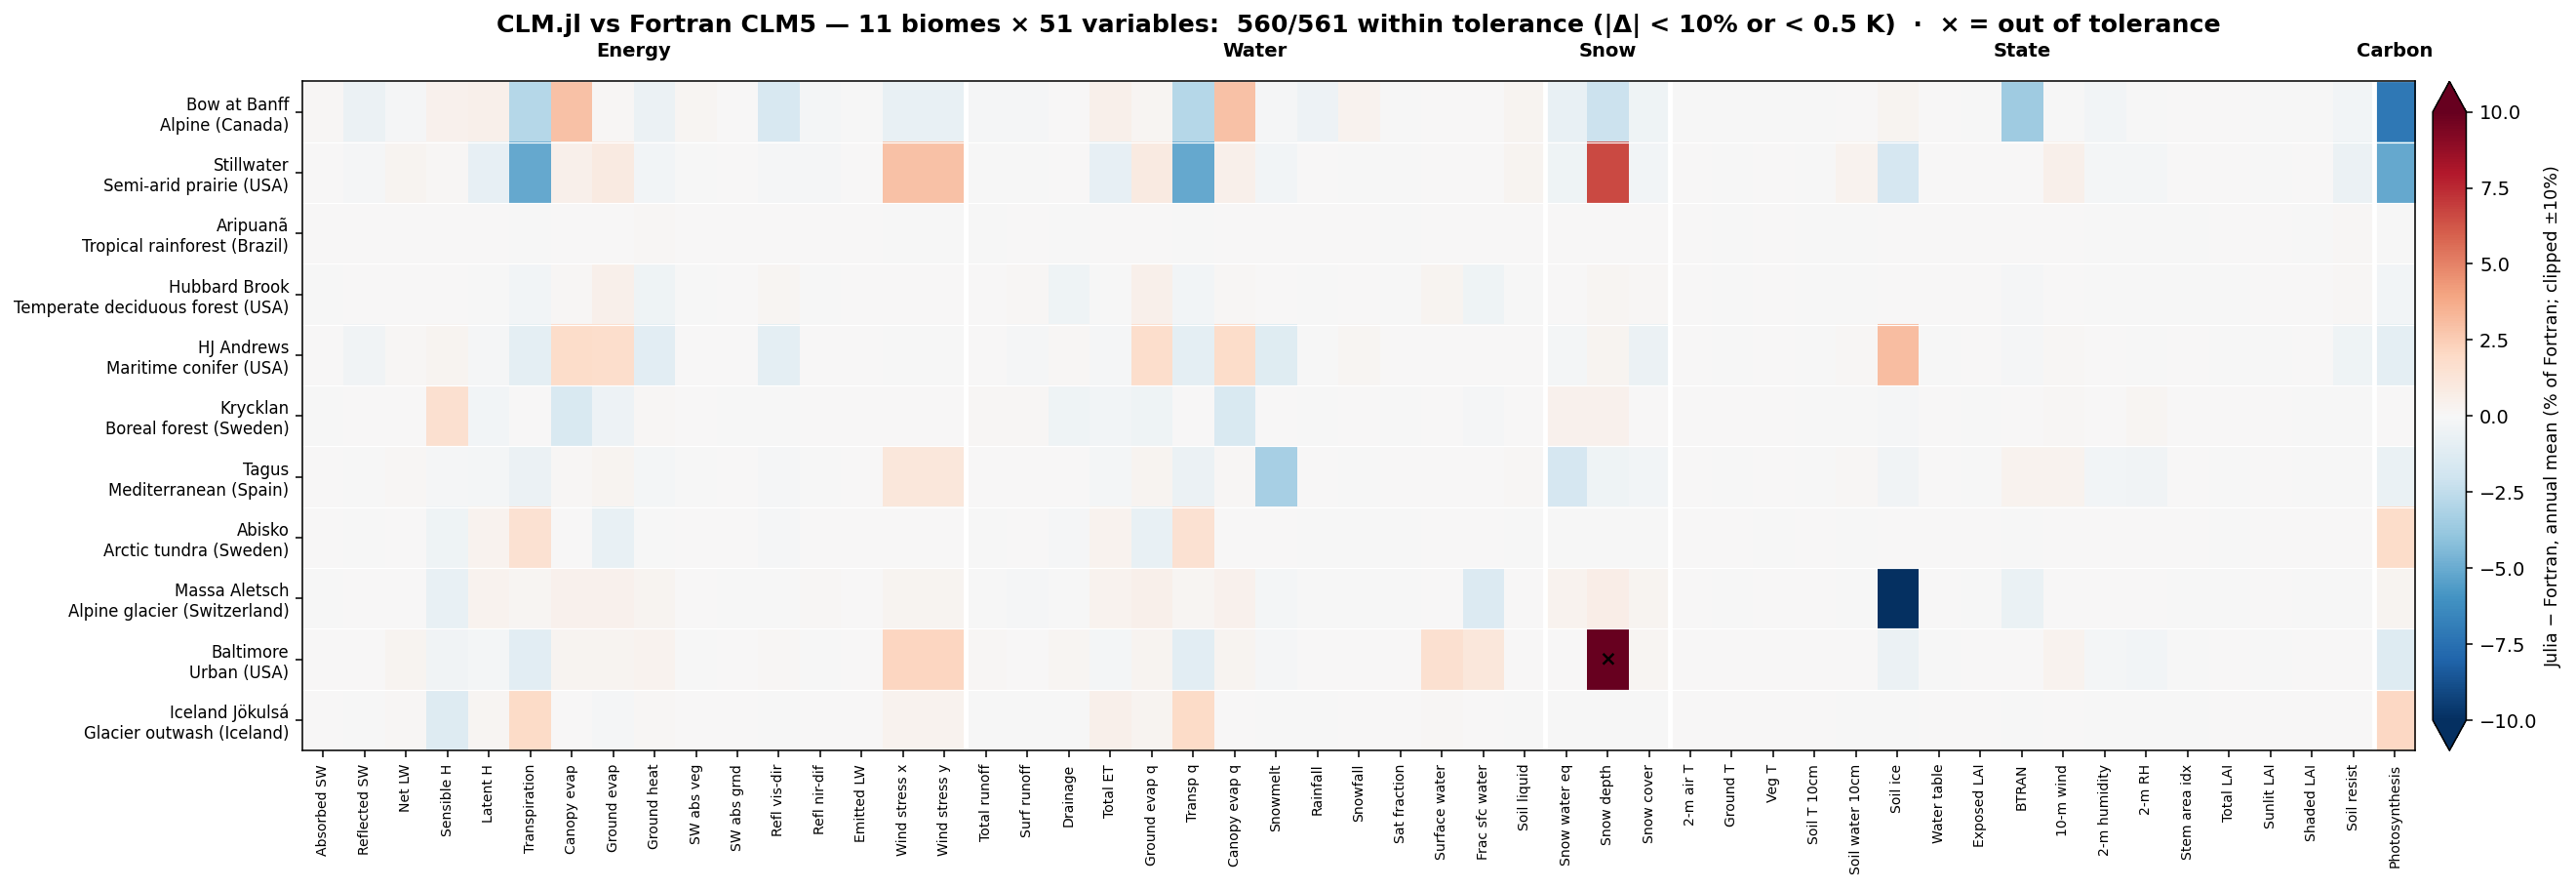
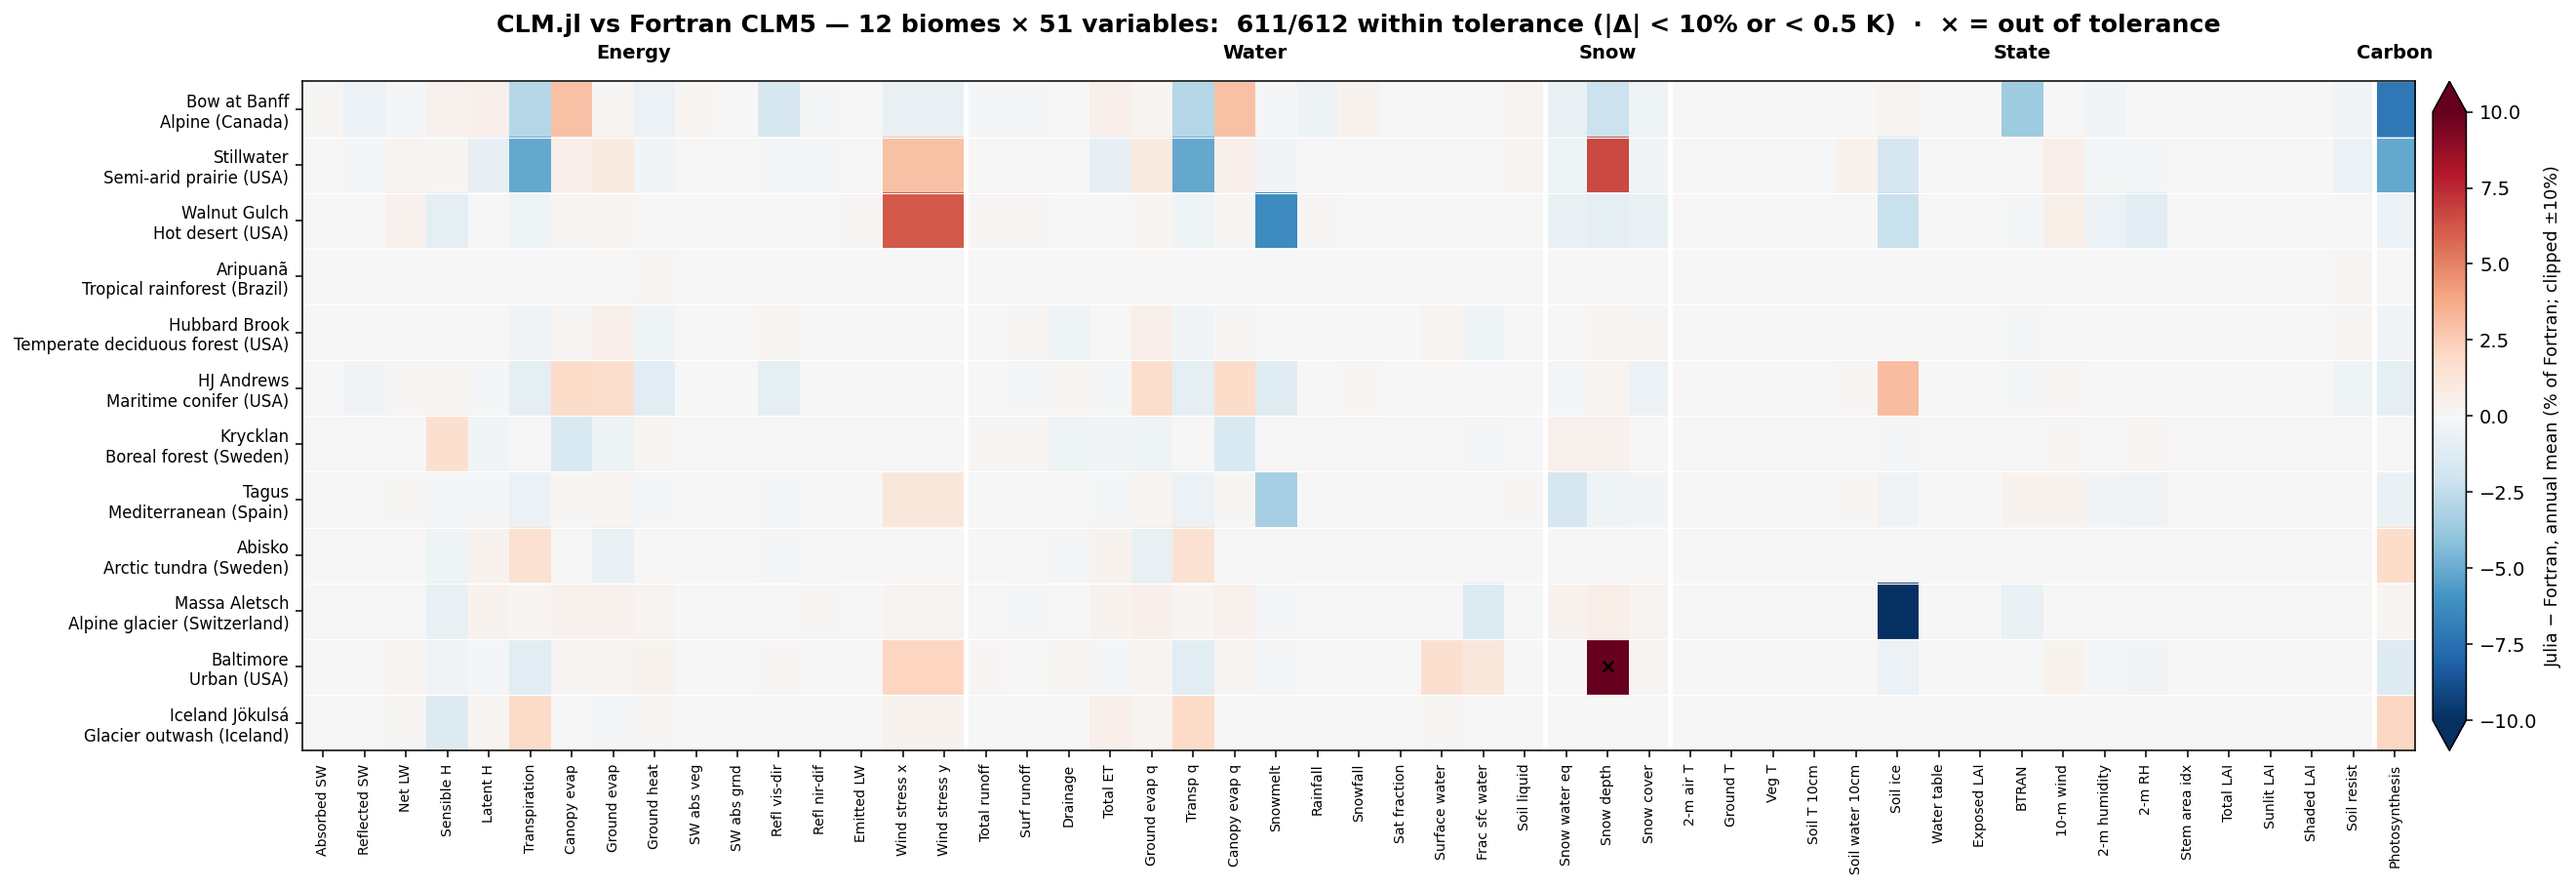
parity: add hot desert biome (Walnut Gulch) — 12th at 51/51
Generate a from-scratch Fortran CLM5 reference for the Walnut Gulch site
(Arizona; hot semi-arid desert shrubland) via SYMFLUENCE and wire it into the
parity suite. Julia matches Fortran on all 51 validated variables — everything
sub-1% except near-zero wind stress (+6.1% on ~0.03 N/m², passes on the noise
floor); temps <0.15 K, GPP -0.6%, water table and soil moisture exact.

- scripts/parity_run_domain.jl already carried the pre-wired Desert entry.
- scripts/plot_scorecard_overview.py: add Walnut Gulch row.
- scripts/parity_scorecard.png: regenerate — now 12 biomes × 51 vars, 611/612
  within tolerance (lone × still thin-warm-snow density at urban Baltimore).
- README: update standing to 611/612 across 12 biomes; move hot desert from
  "in progress" to covered.

Assisted-by: Claude Opus 4.8 (1M context) <[email redacted]>

diff --git a/scripts/plot_scorecard_overview.py b/scripts/plot_scorecard_overview.py
@@ -25,6 +25,7 @@ DATA_DIR = os.path.join(os.path.dirname(__file__), "..", "paper", "data")
 DOMAINS = [
     ("Bow",        f"{_D}/clm_parity_run/Bow_at_Banff_lumped.clm2.h0.2003-01-01-00000.nc", "julia_clm_bow_phs_2003.nc", "Bow at Banff", "Alpine (Canada)"),
     ("Stillwater", f"{_D}/domain_Stillwater_Oklahoma/optimization/CLM/dds_clm_dds_calibration/final_evaluation/Stillwater_Oklahoma.clm2.h0.2003-01-01-00000.nc", "julia_clm_stillwater_phs_2003.nc", "Stillwater", "Semi-arid prairie (USA)"),
+    ("Desert",     f"{_D}/domain_Desert_WalnutGulch_USA/simulations/clm_desert/CLM/Desert_WalnutGulch_USA.clm2.h0.2016-12-31-00000.nc", "julia_clm_desert_phs_2017.nc", "Walnut Gulch", "Hot desert (USA)"),
     ("Aripuana",   f"{_D}/domain_Aripuana_Amazon/simulations/clm_validation/CLM/Aripuana_Amazon.clm2.h0.2004-01-01-00000.nc", "julia_clm_aripuana_phs_2004.nc", "Aripuanã", "Tropical rainforest (Brazil)"),
     ("HubbardBrook", f"{_D}/domain_Temperate_HubbardBrook_USA/simulations/clm_tempforest/CLM/Temperate_HubbardBrook_USA.clm2.h0.2016-12-31-00000.nc", "julia_clm_hubbardbrook_phs_2017.nc", "Hubbard Brook", "Temperate deciduous forest (USA)"),
     ("Maritime",   f"{_D}/domain_Maritime_HJAndrews_USA/simulations/clm_maritime/CLM/Maritime_HJAndrews_USA.clm2.h0.2016-12-31-00000.nc", "julia_clm_maritime_phs_2017.nc", "HJ Andrews", "Maritime conifer (USA)"),

diff --git a/README.md b/README.md
@@ -32,8 +32,8 @@ series are compared variable-by-variable.
 
 ![Multi-biome parity scorecard — CLM.jl vs Fortran CLM5](scripts/parity_scorecard.png)
 
-Current standing: **560 of 561** biome × variable combinations agree within
-**10 % relative** (or **0.5 K** for temperatures), across **11 biomes** and
+Current standing: **611 of 612** biome × variable combinations agree within
+**10 % relative** (or **0.5 K** for temperatures), across **12 biomes** and
 **51 output variables** (energy, water, snow, state, carbon). Most agree to under
 1 %; the residuals that remain are small (e.g. the density of thin, warm,
 transient snow at the urban Baltimore site — the one cell outside tolerance).
@@ -56,10 +56,10 @@ accumulation and melt cycle:
   Whole subsystems (notably biogeochemistry) are not exercised by this suite.
 
 Biomes covered so far: alpine (Bow at Banff), semi-arid prairie (Stillwater),
-tropical rainforest (Aripuanã), temperate deciduous forest (Hubbard Brook),
-Pacific maritime conifer (HJ Andrews), boreal forest (Krycklan), Mediterranean
-(Tagus), arctic tundra (Abisko), alpine glacier (Massa Aletsch), urban
-(Baltimore), and glacier outwash (Iceland) — with more (hot desert, tropical
+hot desert (Walnut Gulch), tropical rainforest (Aripuanã), temperate deciduous
+forest (Hubbard Brook), Pacific maritime conifer (HJ Andrews), boreal forest
+(Krycklan), Mediterranean (Tagus), arctic tundra (Abisko), alpine glacier (Massa
+Aletsch), urban (Baltimore), and glacier outwash (Iceland) — with more (tropical
 savanna) in progress. The
 suite (`scripts/parity_run_domain.jl` + scorecard) is expanded as references are
 generated, so these numbers are a snapshot, not a final result. See also [the